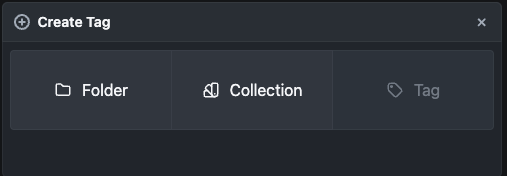
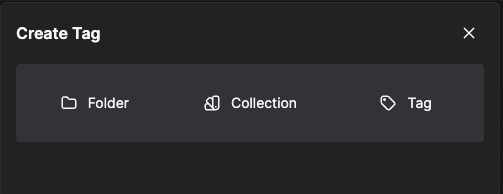
Adding Routing and updating Tags

diff --git a/docs/3_connect/2_surface.md b/docs/3_connect/2_surface.md
@@ -1,12 +1,12 @@
 ![Surface](images/surface.png)
 
-When you click on **Connect** and then **Surface** button in the menu bar, the window shown above opens. Initially, this window displays the surfaces available on the network you are connected to. It provides details about the surface type, IP address, port number, and serial number.
+When you click on **Connect** and then **Surface** in the menu bar, the window shown above opens. Initially, this window displays the surfaces available on the network you are connected to. It provides details about the surface type, IP address, port number, and serial number.
 
 ---
 
 ![Click on a surface](images/click_on_surface.png)
 
-If you `click` on one of the surfaces, the context menu shown above will appear. For now, let’s `click` on **Adopt**.
+If you click on one of the surfaces, the context menu shown above will appear. For now, let’s click on **Adopt**.
 
 You should also notice the small +Badge in front of the first surface, indicating that the surface is newly been discovered on the network.
 
@@ -14,7 +14,7 @@ You should also notice the small +Badge in front of the first surface, indicatin
 
 ![Surface Configuration](images/surface_configuration.png)
 
-`Clicking` **Adopt** adds the surface to **Buttons**. `Click` it again to open the **Surface Config** settings. Here, you can:
+Clicking **Adopt** adds the surface to **Buttons**. Click it again to open the **Surface Config** settings. Here, you can:
 
 - Change the label of the surface.
 - Reset the Serial Number of the Stream Deck.
@@ -25,21 +25,26 @@ You should also notice the small +Badge in front of the first surface, indicatin
 - Adjust the panel brightness.
 - Reboot the surface.
 - Use the **Identify** function to flash a button on the physical surface, making it easier to locate.
-- Adjust the Viewing Angle of the Stream Deck Studio
+- Adjust the Viewing Angle of the Stream Deck Studio.
+- You can also see the related surfaces of the Surface you are configuring, In this example the Stream Deck Neo is connected to the Front USB of the Stream Deck Studio. 
 - Delete any surfaces you no longer want to control in **Buttons**.
 
-Remember to `click` **Save** when you are done.
+Remember to click **Save** when you are done.
+
+![Adopt Multiple Surfaces](images/adopt_multiple_surfaces.png)
+
+You can also adopt multiple surfaces at the same time.
 
 ---
 
 
-The ![Not assigned](images/not_assigned.png) informational indicator by the surface shows that the device is adopted into **Buttons** but is not currently assigned to any **Position**.
+The ![Not assigned](images/not_assigned.png) Dropdown button shows that the device is adopted into **Buttons**, but is not currently assigned to any **Position**.
 
----
+
 
 ![Not assigned context](images/not_assigned_context.png)
 
-If you `click` on the indicator, a context menu appears where you can either:
+If you click on the indicator, a context menu appears where you can either:
 
 - **Create Position**
 - Or, assign the surface to an existing **Position**, depending on your configuration.
@@ -48,18 +53,22 @@ In this setup, we already have a few positions configured.
 
 At the top of the window there are a few buttons.
 
-![alt text](images/surfaces_buttons.png)
+![Alt text](images/surfaces_buttons.png)
 
-The first button will Minimize/Maximize the information in the surface list, giving you more detail or more space.
+The 8/10 Numbers shows us that we currently have 8 of the 10 surfaces that our license allows for, active in our configuration.
 
-The second button will alternate between IP adress and Name for the surfaces.
+The first button will turn on the Log View, making it easier to debug any connection issues 
 
-And the Third button gives you options to group surfaces by tags, making it easyier to organize large systems.
+The Second button will Minimize/Maximize the information in the surface list, giving you more detail or more space.
 
-![alt text](images/grouped_surfaces.png)
+The third button will turn on or off IP address display for the surface list.
+
+And the forth button gives you options to group surfaces by tags, making it easier to organize large systems.
+
+![Alt text](images/grouped_surfaces.png)
 ---
 
-You can also `click` on the blue ![+add](images/+add.png) button to manually set up a surface.
+You can also click on the blue ![+add](images/+add.png) button to manually set up a surface.
 
 ---
 
@@ -71,13 +80,13 @@ This opens the **Create Surface** selection dialog box. Let’s select an iPad.
 
 ![Create a surface select model](images/create_surface2.png)
 
-Next, give it a name and `click` **Create Surface**.
+Next, give it a name and click **Create Surface**.
 
 ---
 
 ![Create a surface select model](images/ipad_surfaceconfig.png)
 
-This brings up the **Surface Config** page for the iPad Surface you just created. To view it, `click` the green ![Open iPad view](images/open_ipad_view.png) button. This will open an iPad view in your browser, which can be used as a surface.
+This brings up the **Surface Config** page for the iPad Surface you just created. To view it, click the green ![Open iPad view](images/open_ipad_view.png) button. This will open an iPad view in your browser, which can be used as a surface.
 
 ---
 
@@ -103,6 +112,6 @@ Notice that the config gives you the resolution at the bottom so that you can ex
 
 ![Custom surface](images/custom_surface.png)
 
-The way to connect a custom surface to the buttons setup is the same as for an iPad. You can also edit the setup after it's created in the config window.
+The way to connect a custom surface to the Buttons setup is the same as for an iPad. You can also edit the setup after it's created in the config window.
 
 ![Custom config](images/custom_config_2.png)

diff --git a/docs/2_positions/4_section.md b/docs/2_positions/4_section.md
@@ -7,10 +7,10 @@ The canvas can be divided into different sections that can be resized and moved 
 2. **Expand the Section:** Click and drag to include the desired cells in your section. When you release the mouse button, the bounding box will expand to encompass all selected cells. The text **“Right-click to create…”** will appear inside the bounding box.
 
 ![Create section](images/section/create_section_3.png)  
-3. **Create the Section:** Right-click to open the context menu and select **“Create Section”**. Or press **S** This action converts the selected cells into a section with its own bounding box.
+1. **Create the Section:** Right-click to open the context menu and select **“Create Section”**. Or press **S** This converts the selected cells into a section with its own bounding box.
 
 ![Create section](images/section/create_section_4.png)  
-The section will include handles that allow you to adjust its size and shape. Additionally, a **section marker box** will appear in the top-left corner of the section. You can use the handlebar within the section marker box to move the entire section across the canvas. Simply click, hold, and drag the handlebar to the desired position.
+The section will include handles that allow you to adjust its size and shape. Additionally, a **section marker box** will appear in the top-left corner of the section. You can use the handlebar within the section bar to move the entire section across the canvas. Simply click, hold, and drag the handlebar to the desired position.
 
 ---
 
@@ -21,7 +21,9 @@ Let’s take a closer look at the **Inspector** for the section:
 
 - **Style:** Set the main and secondary colors for the section. The color scheme distinguishes this section from others, improving navigation.  
 - **Location:** Adjust the position and size of the entire section.  
-- **Pages/Scroll:** Define the behavior of the section when it becomes "overfilled."  
+- **Pages/Scroll:** Define the behavior of the section when it becomes "overfilled."
+- **Variables:** are explained in a other part of this documentation.
+- **Authentication:** Set a pin code or use a NFC to secure the section.
 
 ---
 
@@ -43,7 +45,7 @@ To switch control between sections, push the encoder. The connected section will
 
 ![Pages/Scroll Settings](images/section/pages_scroll.png)  
 
-This feature is a convenient way to expand the available button capacity. For example, when using the **Preset** function for PTZ cameras, which often have 100 or more presets, you can access them efficiently without needing them all displayed simultaneously.
+This feature is a convenient way to expand the available button capacity. For example, when using the **Preset** function for PTZ cameras, which often have 100 or more presets, you can access them efficiently, without needing to have all of them visible at the same time.
 
 ---
 
@@ -53,7 +55,7 @@ This feature is a convenient way to expand the available button capacity. For ex
 Sometimes it’s necessary to protect buttons from accidental activation or unauthorized access. Sections can be secured using a **Numerical Code** or an **NFC key fob** (if you use the Stream Deck Studio).  
 
 ![Code Rule](images/section/code_rule.png)  
-You can add multiple **code rules** to a section based on your needs. Codes must be numerical, and you can also set a time limit for the section to auto-lock after being unlocked.
+You can add multiple **code rules** to a section based on your needs. Codes must be numerical, and you can also set a time for the section to auto-lock after being unlocked.
 
 ![Locked Section](<images/section/locked _section1.png>)
 When a section is locked, it looks like this. Pressing a button within the locked section brings up the code panel.

diff --git a/docs/7_Routing/1_routing.md b/docs/7_Routing/1_routing.md
@@ -3,18 +3,42 @@
 
 The Routing UI consists of 4 pages
 - **Route:** On this page you can Set up and Execute routes or store them as Salvos.
-- **Salvo:** Here you can create and edit Salvos.
+- **Salvo:** Here you can create edit and execute Salvos.
 - **Labels:** Lets you set up custom Labels, Icons and Colors for the Ports and you can also define the Custom Sort 
 - **Config:** This Page will give you a full overview of all the Bundles and Ports of the Router compatible connections in the configuration.
 
-We will start at the bottom and have a look at the Config Page. This page is Read only but will give you a full overview over all Ports and Bundles in the routing system
+
+**Config**
+
+This page is a read only overview over all Ports and Bundles in the routing system. You can sort the Table by clicking on the Column headers. Filter the view by Sources or Destinations, By Device and Domain. You can also expand each of the Bundles to see alt the ports in the bundle. 
+
+![Routing Config](images/routing_config.png)
+
+**Labels**
+
+This page lets you assign customized labels to the Ports and Bundles in the Buttons Routing System. All connections have a **Name** Label that is fetched from the connection, and some connections also have a user definable label, we fetch that as well as **Ext Custom Label**. In addition to those Labels you can make a **User**, **Setup** and **Installation** Label for each Bundle and Port in the configuration. The Custom Sort column allows you to enter sorting criteria for sorting the Bundles and ports both in the router UI and in the router section.
+In addition, you can also assign Icons and colors to the Bundles.
+
+![Routing Labels](images/routing_label.png)
+
+![Routing Labels](images/routing_labels-2.png)
+
+**Route**
+
+In the Route view you can Route sources and destinations in a dual column style screen. The left part of the screen will list the chosen destinations and the right part will show the chosen sources. You can route from Left to right or right to left single bundles or even single ports by expanding the bundles by clicking the **+** all the way to the right and all the way to the left. Or expanding all bundles by clicking the Ports button. The Padlock button at the top of the screen will lock the source and destination selection dropdowns together for easier selection. The double arrow button below the padlock will swap the selection between sources and destination, very useful for Nmos connections with both senders and receivers in the same unit.  
 
 
+![Route](images/routing_route.png)
 
 
+You can select multiple Sources and destinations and either take the route directly or press the **+** to add them to a salvo.
+![Route 2](images/routing-route2.png)
+The Route salvo Popup allows you to remove single routes, clear the whole salvo, save the salvo or Execute the salvo. You can add to the salvo multiple times with multiple connections to make a system-wide salvo.
+![Route Salvo](images/route_salvo.png)
+**Salvo**
 
+In the Salvo view you can create Salvos from scratch, Edit existing salvos and execute salvos.
+![alt text](images/routing_salvo1.png)
 
-
-
-
+> **TIP** There are Internal Actions and Feedbacks for both Routes and salvos, Allowing for Single button execution of Both Complex Routes and Salvos.
 

diff --git a/docs/6_Tags/1_tags.md b/docs/6_Tags/1_tags.md
@@ -1,13 +1,12 @@
-**This document is outdated and will be updated shortly**
 
-**Tags** are keywords you can add to the different elements of **Buttons** to create an organizational structure, or filter search results
+**Tags** are keywords you can add to the different elements of **Buttons** to create an organizational structure, or filter search results.
 ![Tags](images/tags_1.png)
 Large implementations of buttons can greatly benefit from additional organizational structure, here you can add **Tags** and structure according to your needs.
-For example "studio name.", "room number or name.", "floor plan number or name." and so on. Any organizational value that will make it easier to group equipment, software, positions, workstations and units together.
+For example "studio name.", "room number or name.", "floor plan number or name." and so on. You can Add tags to Connections, Surfaces, Positions and just about any part of Buttons, to group them together or use the tag in search or filters. 
 ![Tags](images/tags_2.png)
 **Buttons** will automatically add tags as you add connections and other elements to your system, we have also added some other organizational tags that will appear on the Tags list. Feel free to change or add to them as needed.
 
-When you click on the`+Create`the following dialog will appear, and you can choose which Tag element you want to create.
+When you click on the **+Create** the following dialog will appear, and you can choose which Tag element you want to create.
 ![Create Tag](images/create_tag.png)
 - **Folder**: These are for organizing your Collections in to logical groups 
 - **Collection**: A Collection can contain multiple Tags. Collections are used to group Tags together, And to create filters.

diff --git a/docs/2_positions/2_button.md b/docs/2_positions/2_button.md
@@ -292,7 +292,7 @@ And there is a **...** menu at the end of the dropdown selector.
 
 There is also a couple of variables associated with the encoder selector `$(self.encoderSelectorValue)` and
 `$(self.encoderSelectorLabel)`.  
-The `$(self.encoderSelectorValue)` holds the actual value, and in this case it's a decimal number between 0 and 1, which was also what we used for the Gauge value in the previous example, but here we don't need to do any math as the number is available to us. What the actual content of this variable is will depend on the connection But you can put it in to a Text field and use it as a label to see what the content is and whether it will be useful for you. 
+The `$(self.encoderSelectorValue)` holds the actual value, and in this case it's a decimal number between 0 and 1, which was also what we used for the Gauge value in the previous example, but here we don't need to do any math, as the number is available to us. What the actual content of this variable is will depend on the connection But you can put it in to a Text field and use it as a label to see what the content is and whether it will be useful for you. 
 The `$(self.encoderSelectorLabel)` is the values shown in the dropdown list.
 
 ![Encoder Selector](images/button/encoder_selector5.png)

diff --git a/docs/2_positions/3_presets.md b/docs/2_positions/3_presets.md
@@ -41,4 +41,4 @@ The **Popover** **Button** expands and unfolds over other **Buttons** on the **C
 
 ---
 
-This overview of **Presets** highlights how they can accelerate setup—whether for a small, single **Surface** configuration or a large-scale deployment with multiple rooms and hundreds of **Surfaces**. Keep in mind that not all **Connection modules** include **Presets**, and not all **Actions** are available as **Presets**. If you can’t find a **Preset** that meets your needs, explore the **Actions** in the module. You may still achieve your goal by manually creating the **Button**.
+This overview of **Presets** highlights how they can accelerate setup—whether for a small, single **Surface** configuration or a large-scale deployment with multiple **Positions** and hundreds of **Surfaces**. Keep in mind that not all **Connection modules** include **Presets**, and not all **Actions** are available as **Presets**. If you can’t find a **Preset** that meets your needs, explore the **Actions** in the module. You may still achieve your goal by manually creating the **Button**.

diff --git a/docs/2_positions/1_position.md b/docs/2_positions/1_position.md
@@ -1,6 +1,6 @@
 ![Position](images/position/positions.png 'Position')
 
-**Position** defines a collection of one or more **Surfaces**. It typically aligns with the working role of an individual, such as Vision Mixer, Graphics, or Shader. Each **Position** can be tagged for better **Organization**. To create a new **Position**, click the `+Create` button at the top of the left pane. 
+**Position** defines a collection of one or more **Surfaces**. It typically aligns with the working role of an individual, such as Vision Mixer, Graphics, or Shader. Each **Position** can be tagged for better **Organization**. To create a new **Position**, click the **+Create** button at the top of the left pane. 
 
 A dialog box will appear, prompting you to enter a label for the **Position**. It's a good idea to plan your naming conventions beforehand to maintain a logical and consistent system. You can also create **Positions** when configuring your **Surfaces**.
 

diff --git a/docs/3_connect/1_connect.md b/docs/3_connect/1_connect.md
@@ -25,7 +25,7 @@ Each connection comes with a version dropdown and several informational badges.
 
 ![Router Badge](images/router_badge.png)
 
-**Router Badge**: Indicates that the connection supports the Router system in Buttons. To filter the connections list for Router-supported options, click *Only Routers* at the top of the list.  
+**Router Badge**: Indicates that the connection is supported by the Router system in Buttons. To filter the connections list for Router-supported options, click *Only Routers* at the top of the list.  
 
 ![Legacy Badge](images/legacy_badge.png)
 
@@ -95,7 +95,8 @@ The Connection view option buttons
 
 ![Log view](images/log_view.png)
 
-Logview.
+Log view.  
+
 
 ![Minimized](images/minimized_view.png) ![maximized](images/maximized_view.png)
 

diff --git a/docs/2_positions/5_shift_section.md b/docs/2_positions/5_shift_section.md
@@ -23,6 +23,8 @@ The **Shift Section** effectively doubles the "real estate" available by adding 
 Now you have created a Shift section
 ![Shift Section](images/shift_section/shift_section_4.png)
 
+> **TIP**  You can turn off the **Shift** button, and use the internal action *Set Active Page* to navigate between the *Main* and *Shift* page to create your own navigation
+
 ### Benefits of a Shift Section
 
 With the Shift Section in place, you now have a button to toggle between the main and shift layers. This is particularly useful for setups like PTZ camera presets, where:

diff --git a/docs/wip_notes.md b/docs/wip_notes.md
@@ -9,7 +9,8 @@ Write instruction for using the hide navigation buttons and creating your own na
 
 ## Rewrite and add NMOS 
 
-## rewrite Licence and make new screen shots 
+## rewrite Licence and make new screenshots (done)
+
 
 ## Rewrite settings and take new screen shots 
 
